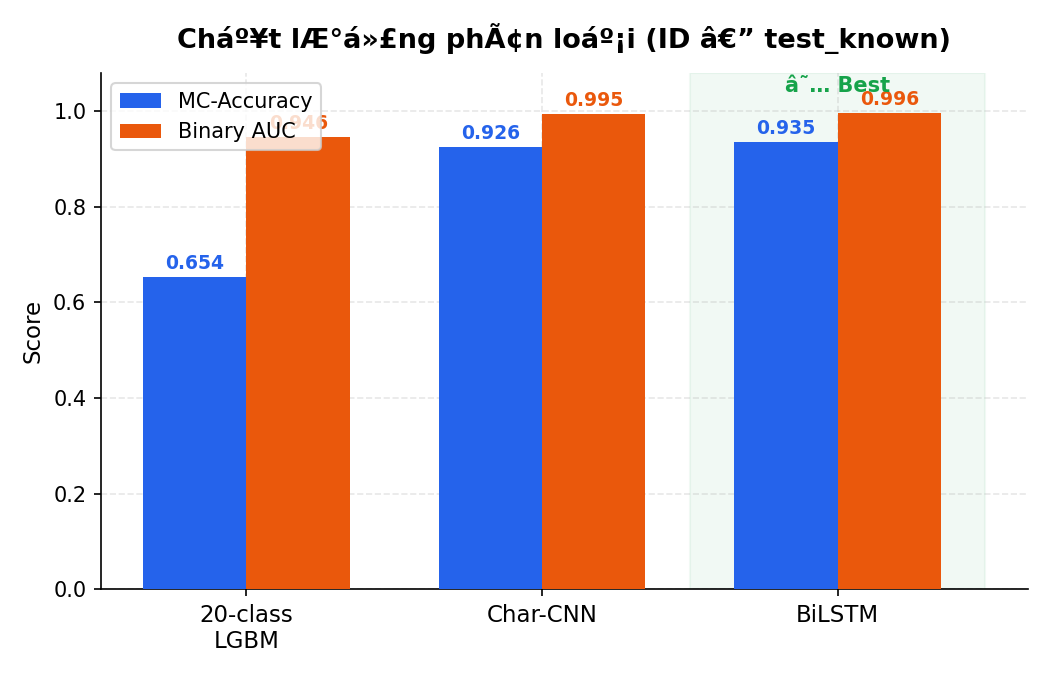
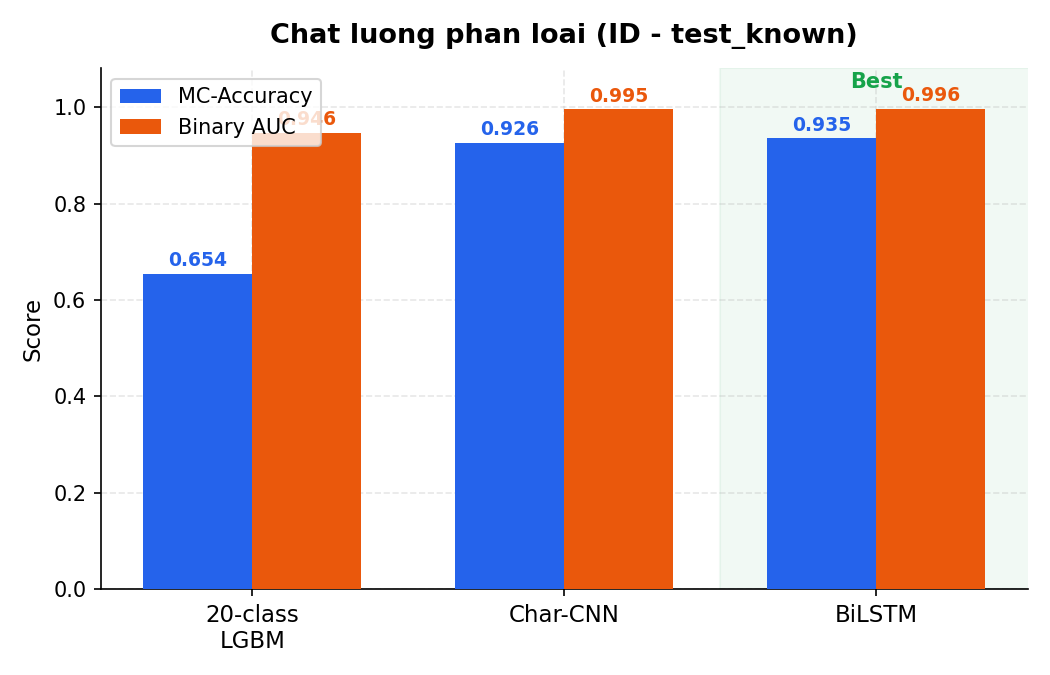
fix path and run again

diff --git a/src/plot_results.py b/src/plot_results.py
@@ -1,6 +1,6 @@
 """
-plot_results.py â€” Trá»±c quan hÃ³a káº¿t quáº£ thá»±c nghiá»‡m Open-Set DGA Detection
-Sinh 3 biá»ƒu Ä‘á»“ + 1 báº£ng tá»•ng há»£p vÃ o thÆ° má»¥c figures/
+plot_results.py - Trực quan hóa kết quả thực nghiệm Open-Set DGA Detection
+Sinh 6 biểu đồ vào thư mục figures/
 """
 
 import os
@@ -11,11 +11,12 @@ matplotlib.use("Agg")
 import matplotlib.pyplot as plt
 import matplotlib.patches as mpatches
 import numpy as np
+import pandas as pd
 
 OUT_DIR = "figures"
 os.makedirs(OUT_DIR, exist_ok=True)
 
-# â”€â”€ style â”€â”€â”€â”€â”€â”€â”€â”€â”€â”€â”€â”€â”€â”€â”€â”€â”€â”€â”€â”€â”€â”€â”€â”€â”€â”€â”€â”€â”€â”€â”€â”€â”€â”€â”€â”€â”€â”€â”€â”€â”€â”€â”€â”€â”€â”€â”€â”€â”€â”€â”€â”€â”€â”€â”€â”€â”€â”€â”€â”€â”€â”€â”€â”€â”€â”€â”€â”€
+# ── style
 plt.rcParams.update({
     "font.family": "DejaVu Sans",
     "axes.spines.top": False,
@@ -31,9 +32,9 @@ GRAY   = "#6B7280"
 GREEN  = "#16A34A"
 RED    = "#DC2626"
 
-# â•â•â•â•â•â•â•â•â•â•â•â•â•â•â•â•â•â•â•â•â•â•â•â•â•â•â•â•â•â•â•â•â•â•â•â•â•â•â•â•â•â•â•â•â•â•â•â•â•â•â•â•â•â•â•â•â•â•â•â•â•â•â•â•â•â•â•â•â•â•â•â•â•â•â•â•
-# Figure 1 â€” Classification accuracy (MC-Acc / Binary AUC)
-# â•â•â•â•â•â•â•â•â•â•â•â•â•â•â•â•â•â•â•â•â•â•â•â•â•â•â•â•â•â•â•â•â•â•â•â•â•â•â•â•â•â•â•â•â•â•â•â•â•â•â•â•â•â•â•â•â•â•â•â•â•â•â•â•â•â•â•â•â•â•â•â•â•â•â•â•
+# ══════════════════════════════════════════════════════════════════════════════
+# Figure 1 - Classification accuracy (MC-Acc / Binary AUC)
+# ══════════════════════════════════════════════════════════════════════════════
 models   = ["20-class\nLGBM", "Char-CNN", "BiLSTM"]
 mc_acc   = [0.654,  0.926,  0.935]
 bin_auc  = [0.946,  0.995,  0.996]
@@ -45,7 +46,6 @@ w = 0.35
 bars1 = ax.bar(x - w/2, mc_acc, w, label="MC-Accuracy", color=BLUE,   zorder=3)
 bars2 = ax.bar(x + w/2, bin_auc, w, label="Binary AUC",  color=ORANGE, zorder=3)
 
-# annotate
 for bar, val in zip(bars1, mc_acc):
     ax.text(bar.get_x() + bar.get_width()/2, bar.get_height() + 0.008,
             f"{val:.3f}", ha="center", va="bottom", fontsize=9, color=BLUE, fontweight="bold")
@@ -58,25 +58,20 @@ ax.set_xticks(x)
 ax.set_xticklabels(models, fontsize=11)
 ax.set_ylim(0, 1.08)
 ax.set_ylabel("Score", fontsize=11)
-ax.set_title("Cháº¥t lÆ°á»£ng phÃ¢n loáº¡i (ID â€” test_known)", fontsize=13, fontweight="bold", pad=12)
+ax.set_title("Chat luong phan loai (ID - test_known)", fontsize=13, fontweight="bold", pad=12)
 ax.legend(fontsize=10)
 
-# highlight BiLSTM
 ax.axvspan(x[-1] - 0.5, x[-1] + 0.5, alpha=0.06, color=GREEN, zorder=0)
-ax.text(x[-1], 1.04, "â˜… Best", ha="center", fontsize=10, color=GREEN, fontweight="bold")
+ax.text(x[-1], 1.04, "Best", ha="center", fontsize=10, color=GREEN, fontweight="bold")
 
 fig.tight_layout()
 fig.savefig(f"{OUT_DIR}/fig1_classification.png", dpi=150)
 plt.close(fig)
-print(f"[âœ“] {OUT_DIR}/fig1_classification.png")
+print(f"[OK] {OUT_DIR}/fig1_classification.png")
 
-# â•â•â•â•â•â•â•â•â•â•â•â•â•â•â•â•â•â•â•â•â•â•â•â•â•â•â•â•â•â•â•â•â•â•â•â•â•â•â•â•â•â•â•â•â•â•â•â•â•â•â•â•â•â•â•â•â•â•â•â•â•â•â•â•â•â•â•â•â•â•â•â•â•â•â•â•
-# Figure 2 â€” OOD unknown_family: chá»‰ best + 2 baseline Ä‘áº¡i diá»‡n + insight
-# â•â•â•â•â•â•â•â•â•â•â•â•â•â•â•â•â•â•â•â•â•â•â•â•â•â•â•â•â•â•â•â•â•â•â•â•â•â•â•â•â•â•â•â•â•â•â•â•â•â•â•â•â•â•â•â•â•â•â•â•â•â•â•â•â•â•â•â•â•â•â•â•â•â•â•â•
-# Giá»¯ láº¡i:
-#   LGBM MSP   â†’ baseline ML cá»• Ä‘iá»ƒn
-#   BiLSTM MSP â†’ baseline neural (Ä‘á»ƒ tháº¥y Energy >> MSP)
-#   BiLSTM Energy â†’ BEST
+# ══════════════════════════════════════════════════════════════════════════════
+# Figure 2 - OOD unknown_family
+# ══════════════════════════════════════════════════════════════════════════════
 uf_labels = ["LGBM\nMSP", "Char-CNN\nMSP", "BiLSTM\nMSP", "BiLSTM\nEnergy\n(best)"]
 uf_auroc  = [0.550,       0.670,           0.661,           0.836               ]
 uf_colors = [GRAY,        GRAY,            GRAY,            GREEN               ]
@@ -91,7 +86,7 @@ for bar, val, color in zip(bars, uf_auroc, uf_colors):
 
 ax.set_xlim(0.4, 0.93)
 ax.set_xlabel("AUROC", fontsize=11)
-ax.set_title("OOD â€” unknown_family (há» DGA chÆ°a tháº¥y)",
+ax.set_title("OOD - unknown_family (ho DGA chua thay)",
              fontsize=12, fontweight="bold", pad=10)
 ax.axvline(0.5, color=RED, linestyle="--", alpha=0.4, linewidth=1.2, label="Random (0.5)")
 
@@ -101,15 +96,11 @@ ax.legend(fontsize=9, loc="lower right")
 fig.tight_layout()
 fig.savefig(f"{OUT_DIR}/fig2_ood_unknown_family.png", dpi=150)
 plt.close(fig)
-print(f"[âœ“] {OUT_DIR}/fig2_ood_unknown_family.png")
+print(f"[OK] {OUT_DIR}/fig2_ood_unknown_family.png")
 
-# â•â•â•â•â•â•â•â•â•â•â•â•â•â•â•â•â•â•â•â•â•â•â•â•â•â•â•â•â•â•â•â•â•â•â•â•â•â•â•â•â•â•â•â•â•â•â•â•â•â•â•â•â•â•â•â•â•â•â•â•â•â•â•â•â•â•â•â•â•â•â•â•â•â•â•â•
-# Figure 3 â€” OOD unknown_ood: chá»‰ best + 2 baseline Ä‘áº¡i diá»‡n + insight
-# â•â•â•â•â•â•â•â•â•â•â•â•â•â•â•â•â•â•â•â•â•â•â•â•â•â•â•â•â•â•â•â•â•â•â•â•â•â•â•â•â•â•â•â•â•â•â•â•â•â•â•â•â•â•â•â•â•â•â•â•â•â•â•â•â•â•â•â•â•â•â•â•â•â•â•â•
-# Giá»¯ láº¡i:
-#   LGBM MSP      â†’ baseline ML cá»• Ä‘iá»ƒn
-#   BiLSTM Energy â†’ baseline neural tá»‘t nháº¥t trÆ°á»›c KNN (Ä‘á»ƒ tháº¥y KNN >> Energy á»Ÿ split nÃ y)
-#   BiLSTM KNN k=5 â†’ BEST
+# ══════════════════════════════════════════════════════════════════════════════
+# Figure 3 - OOD unknown_ood
+# ══════════════════════════════════════════════════════════════════════════════
 oo_labels = ["LGBM\nMSP", "BiLSTM\nEnergy", "Char-CNN\nKNN k=5", "BiLSTM\nKNN k=5\n(best)"]
 oo_auroc  = [0.529,       0.571,           0.680,              0.707              ]
 oo_colors = [GRAY,        GRAY,            BLUE,               GREEN              ]
@@ -124,7 +115,7 @@ for bar, val, color in zip(bars, oo_auroc, oo_colors):
 
 ax.set_xlim(0.35, 0.78)
 ax.set_xlabel("AUROC", fontsize=11)
-ax.set_title("OOD â€” unknown_ood (domain legitimate)",
+ax.set_title("OOD - unknown_ood (domain legitimate)",
              fontsize=12, fontweight="bold", pad=10)
 ax.axvline(0.5, color=RED, linestyle="--", alpha=0.4, linewidth=1.2, label="Random (0.5)")
 
@@ -134,12 +125,12 @@ ax.legend(fontsize=9, loc="lower right")
 fig.tight_layout()
 fig.savefig(f"{OUT_DIR}/fig3_ood_unknown_ood.png", dpi=150)
 plt.close(fig)
-print(f"[âœ“] {OUT_DIR}/fig3_ood_unknown_ood.png")
+print(f"[OK] {OUT_DIR}/fig3_ood_unknown_ood.png")
 
-# â•â•â•â•â•â•â•â•â•â•â•â•â•â•â•â•â•â•â•â•â•â•â•â•â•â•â•â•â•â•â•â•â•â•â•â•â•â•â•â•â•â•â•â•â•â•â•â•â•â•â•â•â•â•â•â•â•â•â•â•â•â•â•â•â•â•â•â•â•â•â•â•â•â•â•â•
-# Figure 4 â€” so sÃ¡nh Energy vs KNN trÃªn hai split (insight chÃnh)
-# â•â•â•â•â•â•â•â•â•â•â•â•â•â•â•â•â•â•â•â•â•â•â•â•â•â•â•â•â•â•â•â•â•â•â•â•â•â•â•â•â•â•â•â•â•â•â•â•â•â•â•â•â•â•â•â•â•â•â•â•â•â•â•â•â•â•â•â•â•â•â•â•â•â•â•â•
-splits  = ["unknown_family\n(há» DGA má»›i)", "unknown_ood\n(domain legitimate)"]
+# ══════════════════════════════════════════════════════════════════════════════
+# Figure 4 - So sanh Energy vs KNN tren hai split
+# ══════════════════════════════════════════════════════════════════════════════
+splits  = ["unknown_family\n(ho DGA moi)", "unknown_ood\n(domain legitimate)"]
 energy  = [0.836, 0.571]
 knn     = [0.647, 0.707]
 
@@ -161,28 +152,30 @@ ax.set_xticks(x)
 ax.set_xticklabels(splits, fontsize=11)
 ax.set_ylim(0.4, 0.95)
 ax.set_ylabel("AUROC", fontsize=11)
-ax.set_title("Energy vs KNN â€” BiLSTM",
+ax.set_title("Energy vs KNN - BiLSTM",
              fontsize=12, fontweight="bold", pad=12)
 ax.legend(fontsize=10)
 ax.axhline(0.5, color=RED, linestyle="--", alpha=0.4, linewidth=1)
 
-
 fig.tight_layout()
 fig.savefig(f"{OUT_DIR}/fig4_energy_vs_knn.png", dpi=150)
 plt.close(fig)
-print(f"[âœ“] {OUT_DIR}/fig4_energy_vs_knn.png")
+print(f"[OK] {OUT_DIR}/fig4_energy_vs_knn.png")
 
-# â•â•â•â•â•â•â•â•â•â•â•â•â•â•â•â•â•â•â•â•â•â•â•â•â•â•â•â•â•â•â•â•â•â•â•â•â•â•â•â•â•â•â•â•â•â•â•â•â•â•â•â•â•â•â•â•â•â•â•â•â•â•â•â•â•â•â•â•â•â•â•â•â•â•â•â•
-# Figure 5 â€” PhÃ¢n phá»‘i OOD score (Confidence Score Distribution)
-#            BiLSTM + Energy  (best scorer cho unknown_family)
-# â•â•â•â•â•â•â•â•â•â•â•â•â•â•â•â•â•â•â•â•â•â•â•â•â•â•â•â•â•â•â•â•â•â•â•â•â•â•â•â•â•â•â•â•â•â•â•â•â•â•â•â•â•â•â•â•â•â•â•â•â•â•â•â•â•â•â•â•â•â•â•â•â•â•â•â•
-import pandas as pd
+# ══════════════════════════════════════════════════════════════════════════════
+# Figure 5 - Phan phoi OOD score (Confidence Score Distribution)
+#            BiLSTM + Energy
+# ══════════════════════════════════════════════════════════════════════════════
+import glob
 
-_bilstm_dir = "baseline_out/bilstm_20260414_222503"
+# Tim bilstm dir tu dong
+_bilstm_dirs = sorted(glob.glob("baseline_out/bilstm_*/"))
+_bilstm_dir = _bilstm_dirs[-1].rstrip("/") if _bilstm_dirs else "baseline_out/bilstm_20260414_222503"
+
 _score_files = {
-    "known (ID)":          f"{_bilstm_dir}/scores_energy_known.csv",
-    "unknown family\n(DGA má»›i)": f"{_bilstm_dir}/scores_energy_unknown_family.csv",
-    "unknown OOD\n(legitimate)": f"{_bilstm_dir}/scores_energy_unknown_ood.csv",
+    "known (ID)":               f"{_bilstm_dir}/scores_energy_known.csv",
+    "unknown family (DGA moi)": f"{_bilstm_dir}/scores_energy_unknown_family.csv",
+    "unknown OOD (legitimate)": f"{_bilstm_dir}/scores_energy_unknown_ood.csv",
 }
 
 _loaded = {}
@@ -195,15 +188,14 @@ for _label, _path in _score_files.items():
 
 if len(_loaded) >= 2:
     _colors = {
-        "known (ID)":          BLUE,
-        "unknown family\n(DGA má»›i)": ORANGE,
-        "unknown OOD\n(legitimate)": GRAY,
+        "known (ID)":               BLUE,
+        "unknown family (DGA moi)": ORANGE,
+        "unknown OOD (legitimate)": GRAY,
     }
-    _SAMPLE = 10_000  # subsample for speed
+    _SAMPLE = 10_000
 
     fig, axes = plt.subplots(1, 2, figsize=(13, 5))
 
-    # --- panel A: histogram (overlaid) ---
     ax = axes[0]
     rng = np.random.default_rng(42)
     for _label, _scores in _loaded.items():
@@ -212,12 +204,11 @@ if len(_loaded) >= 2:
                 color=_colors.get(_label, GRAY), label=_label)
     ax.set_xlabel("OOD Score (Energy)", fontsize=11)
     ax.set_ylabel("Density", fontsize=11)
-    ax.set_title("PhÃ¢n phá»‘i OOD Score â€” BiLSTM Energy", fontsize=12, fontweight="bold")
+    ax.set_title("Phan phoi OOD Score - BiLSTM Energy", fontsize=12, fontweight="bold")
     ax.legend(fontsize=9)
 
-    # --- panel B: box plot ---
     ax2 = axes[1]
-    _box_data  = list(_loaded.values())
+    _box_data   = list(_loaded.values())
     _box_labels = list(_loaded.keys())
     _box_colors = [_colors.get(l, GRAY) for l in _box_labels]
 
@@ -232,7 +223,7 @@ if len(_loaded) >= 2:
     ax2.set_xticks(range(1, len(_box_labels) + 1))
     ax2.set_xticklabels(_box_labels, fontsize=9)
     ax2.set_ylabel("OOD Score (Energy)", fontsize=11)
-    ax2.set_title("Box Plot â€” phÃ¢n tÃ¡ch ID vs OOD", fontsize=12, fontweight="bold")
+    ax2.set_title("Box Plot - phan tach ID vs OOD", fontsize=12, fontweight="bold")
 
     fig.suptitle(
         "Confidence Score Distribution: in-distribution vs OOD (BiLSTM + Energy)",
@@ -241,27 +232,25 @@ if len(_loaded) >= 2:
     fig.tight_layout()
     fig.savefig(f"{OUT_DIR}/fig5_score_distribution.png", dpi=150, bbox_inches="tight")
     plt.close(fig)
-    print(f"[âœ“] {OUT_DIR}/fig5_score_distribution.png")
+    print(f"[OK] {OUT_DIR}/fig5_score_distribution.png")
 else:
-    print("  [skip] fig5: khÃ´ng Ä‘á»§ score CSV, cháº¡y train_bilstm.py trÆ°á»›c")
+    print("  [skip] fig5: khong du score CSV, chay train_bilstm.py truoc")
 
-# â•â•â•â•â•â•â•â•â•â•â•â•â•â•â•â•â•â•â•â•â•â•â•â•â•â•â•â•â•â•â•â•â•â•â•â•â•â•â•â•â•â•â•â•â•â•â•â•â•â•â•â•â•â•â•â•â•â•â•â•â•â•â•â•â•â•â•â•â•â•â•â•â•â•â•â•
-# Figure 6 â€” Benign overfit analysis: per-source OOD score breakdown
-#            Chá»©ng minh tranco_tail â‰ˆ train benign â†’ model khÃ´ng phÃ¢n biá»‡t Ä‘Æ°á»£c
-# â•â•â•â•â•â•â•â•â•â•â•â•â•â•â•â•â•â•â•â•â•â•â•â•â•â•â•â•â•â•â•â•â•â•â•â•â•â•â•â•â•â•â•â•â•â•â•â•â•â•â•â•â•â•â•â•â•â•â•â•â•â•â•â•â•â•â•â•â•â•â•â•â•â•â•â•
-_bilstm_dir = "baseline_out/bilstm_20260414_222503"
+# ══════════════════════════════════════════════════════════════════════════════
+# Figure 6 - Benign overfit analysis: per-source OOD score breakdown
+# ══════════════════════════════════════════════════════════════════════════════
+_bilstm_dirs = sorted(glob.glob("baseline_out/bilstm_*/"))
+_bilstm_dir  = _bilstm_dirs[-1].rstrip("/") if _bilstm_dirs else "baseline_out/bilstm_20260414_222503"
 _dataset_dir = "data/processed"
 
 try:
     _ood_meta  = pd.read_csv(f"{_dataset_dir}/unknown_ood/test_unknown_ood.csv")
     _ood_score = pd.read_csv(f"{_bilstm_dir}/scores_energy_unknown_ood.csv")
-    # scores_energy_known.csv = ID (known) test split scores — use directly as reference
     _known_sc  = pd.read_csv(f"{_bilstm_dir}/scores_energy_known.csv")
 
     _ood_df = _ood_meta.merge(
         _ood_score.rename(columns={"ood_score": "energy"}), on="domain", how="inner"
     )
-    # ID reference: all known test scores (benign + DGA — reflects what model sees as in-distribution)
     _id_scores = _known_sc["ood_score"].dropna().values
 
     _src_rename = {
@@ -286,7 +275,6 @@ try:
 
     fig, axes = plt.subplots(1, 2, figsize=(14, 5))
 
-    # --- panel A: median energy by source ---
     ax = axes[0]
     _bar_colors = [
         ORANGE if src == "tranco_tail" else (BLUE if src == "crt.sh" else GRAY)
@@ -313,12 +301,11 @@ try:
                     fontsize=8, color=ORANGE,
                     arrowprops=dict(arrowstyle="->", color=ORANGE, lw=1.3))
 
-    # --- panel B: histogram tranco_tail vs known vs 360netlab ---
     ax2 = axes[1]
     _rng = np.random.default_rng(42)
 
     _groups = {
-        "known (ID — test_known)":   (_id_scores,  GREEN),
+        "known (ID - test_known)":   (_id_scores,  GREEN),
         "tranco_tail (OOD legit)":   (_ood_df[_ood_df["src_short"] == "tranco_tail"]["energy"].dropna().values, ORANGE),
         "360netlab (OOD malicious)": (_ood_df[_ood_df["src_short"] == "360netlab"]["energy"].dropna().values, RED),
     }
@@ -334,7 +321,7 @@ try:
                   "(tranco_tail overlaps with known ID -> hard to detect)", fontsize=10, fontweight="bold")
     ax2.legend(fontsize=9)
 
-    fig.suptitle("Benign Overfit Analysis — Model cannot distinguish tranco_tail from known benign",
+    fig.suptitle("Benign Overfit Analysis - Model cannot distinguish tranco_tail from known benign",
                  fontsize=12, fontweight="bold", y=1.01)
     fig.tight_layout()
     fig.savefig(f"{OUT_DIR}/fig6_benign_overfit.png", dpi=150, bbox_inches="tight")

diff --git a/src/train_baseline.py b/src/train_baseline.py
@@ -32,9 +32,6 @@ from sklearn.metrics import (
     roc_auc_score,
 )
 
-import sys
-from pathlib import Path
-sys.path.insert(0, str(Path(__file__).resolve().parent.parent / "notebooks"))
 from features import FEATURE_NAMES, extract_features_batch
 
 # ── paths ───────────────────────────────────────────────────────────────────

diff --git a/src/train_multiclass.py b/src/train_multiclass.py
@@ -30,9 +30,6 @@ from sklearn.metrics import accuracy_score, f1_score, roc_auc_score
 from sklearn.neighbors import NearestNeighbors
 from sklearn.preprocessing import LabelEncoder, StandardScaler
 
-import sys
-from pathlib import Path
-sys.path.insert(0, str(Path(__file__).resolve().parent.parent / "notebooks"))
 from features import FEATURE_NAMES, extract_features_batch
 from ood_utils import ood_metrics, print_ood_metrics
 
